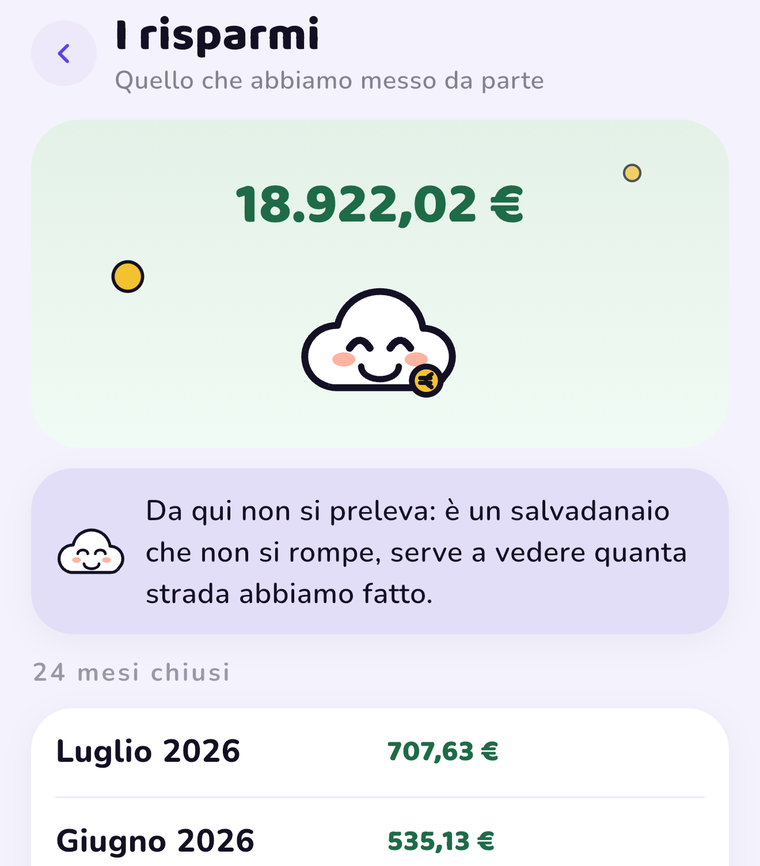
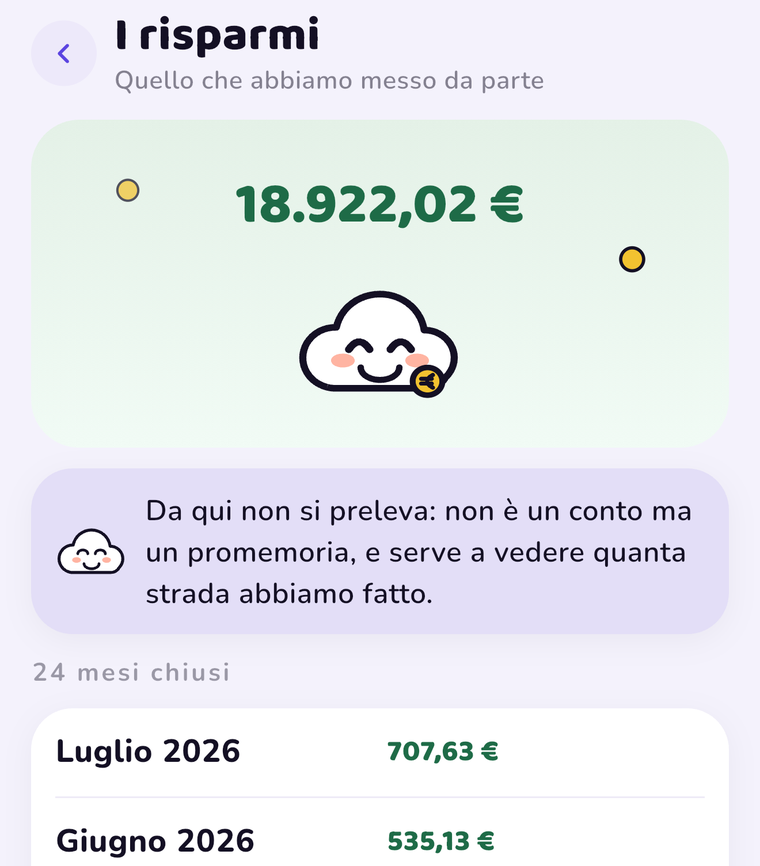
Via il salvadanaio anche dai testi
Nell'app l'icona è una pila di monete: la frase che parlava di un
salvadanaio non ha più niente a cui appoggiarsi.

diff --git a/supporto.html b/supporto.html
@@ -291,7 +291,7 @@ figcaption { margin-top: 8px; font: 600 12.5px/1.45 Nunito, sans-serif; color: v
       <img src="img/risparmi.png" alt="La schermata dei risparmi: il totale messo da parte, la nuvoletta con la monetina e l'elenco dei mesi chiusi" loading="lazy">
       <figcaption>Ogni mese chiuso compare nell'elenco: in verde quelli in positivo, in rosso quelli in cui hai sforato.</figcaption>
     </figure>
-    <p><strong>Da qui non si preleva.</strong> Non è un conto e non è un salvadanaio dove spostare soldi: è un totale calcolato dai tuoi mesi, che serve a vedere la strada fatta. Per la stessa ragione il mese in corso non ci entra finché non è chiuso — lo trovi indicato a parte, in fondo alla schermata.</p>
+    <p><strong>Da qui non si preleva.</strong> Non è un conto e non c'è niente da spostare: è un totale calcolato dai tuoi mesi, che serve a vedere la strada fatta. Per la stessa ragione il mese in corso non ci entra finché non è chiuso — lo trovi indicato a parte, in fondo alla schermata.</p>
 
     <h3>Come metto un tetto di spesa a una categoria</h3>
     <p>Nella schermata principale, accanto a <strong>Budget</strong>, tocca <strong>Vedi tutti</strong>: si apre l'elenco delle categorie con quanto hai speso e quanto avevi previsto. Tocca una categoria per scriverne il tetto mensile, o usa il riquadro tratteggiato per creare una categoria nuova con il suo tetto, nome e colore.</p>

diff --git a/index.html b/index.html
@@ -473,7 +473,7 @@ footer ul { display: flex; gap: 22px; flex-wrap: wrap; }
       <div class="feature">
         <span class="tag">Risparmi</span>
         <h3>Quello che avanza resta</h3>
-        <p>Ogni mese che chiude in positivo lascia lì il suo avanzo; i mesi in cui hai sforato se ne prendono un pezzo. Non è un conto su cui si opera: è un salvadanaio che non si rompe, e serve a vedere la strada fatta.</p>
+        <p>Ogni mese che chiude in positivo lascia lì il suo avanzo; i mesi in cui hai sforato se ne prendono un pezzo. Non è un conto su cui si opera: è un promemoria, e serve a vedere la strada fatta.</p>
       </div>
       <div class="feature">
         <span class="tag">Valute</span>
